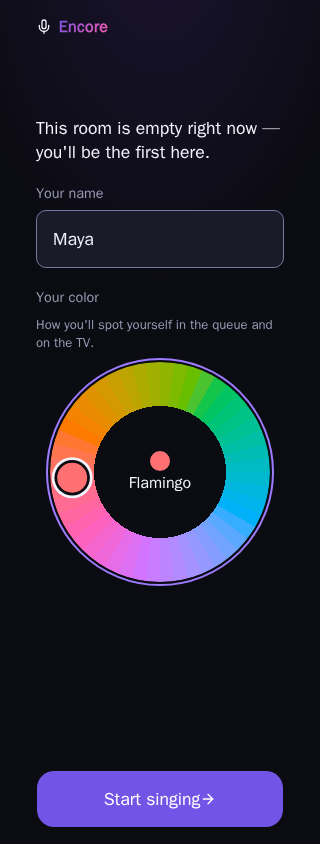
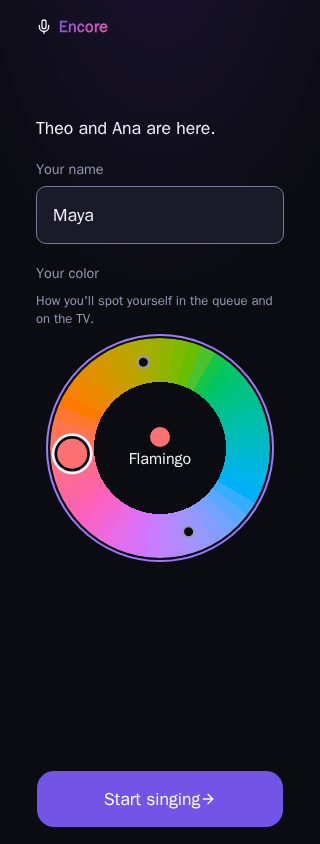
docs: README frames, review nits

diff --git a/core/tests/playwright/specs/shot/readme.spec.ts b/core/tests/playwright/specs/shot/readme.spec.ts
@@ -1,6 +1,9 @@
 // THE README FRAMES. One room driven end to end, so the screenshots in README.md show the app as it ships:
-// a phone joining, a TV lobby with its QR, a queue with somebody on deck, and the TV handing over a turn.
-// Run `README_SHOTS_OUT=../docs/screenshots bun run pw:shot readme.spec.ts` to refresh them.
+// a phone joining, a TV lobby with its QR, a queue with somebody on deck, and the TV after it hands over a turn.
+// Run `README_SHOTS_OUT=../docs/screenshots bun run pw:shot readme.spec.ts` to refresh them, inside
+// `mcr.microsoft.com/playwright:v1.56.1-noble` (docs/E2E.md): the app's system font stack changes every frame elsewhere.
+// Then shrink the two TV frames to a 256-colour palette, which keeps the QR and text crisp:
+// `for f in tv-lobby tv-up-next; do convert $f.png -strip -dither FloydSteinberg -colors 256 PNG8:$f.png; done`
 //
 // EVERY VALUE ON SCREEN IS A FIXTURE: the room code is minted per run, the join address is the same LAN-shaped
 // one `frames.spec.ts` uses, the singers are the names the other shot specs use, and the songs are TheFatRat's
@@ -40,17 +43,6 @@ test('readme: phone and TV frames', async ({ browser, world }, testInfo) => {
 		}
 	}
 
-	// The join pane a scanned QR lands on, filled in.
-	const anon = await browser.newContext({ baseURL: world.baseURL, viewport: { width: 390, height: 844 } });
-	const join_ = await anon.newPage();
-	await join_.emulateMedia({ reducedMotion: 'reduce' });
-	await join_.goto(`/?room=${encodeURIComponent(world.code)}`);
-	await join_.locator(SEL.nameInput).fill('Maya');
-	await join_.locator(SEL.colourRing).press('End');
-	await expect(join_.getByRole('button', { name: SEL.submit })).toBeEnabled();
-	await shootPhone(join_, 'phone-join', SEL.nameInput);
-	await anon.close();
-
 	const worker = await startFakeWorker(world);
 	try {
 		const tv = await world.openTv();
@@ -59,8 +51,21 @@ test('readme: phone and TV frames', async ({ browser, world }, testInfo) => {
 		await theo.goto('/settings/server');
 		await theo.locator(SEL.setting('join-origin')).fill('http://192.168.7.42:3000');
 		await theo.locator(SEL.setting('join-origin')).blur();
-		const maya = await world.openPhone('Maya', { stop: 'End' });
 		const ana = await world.openPhone('Ana');
+
+		// The join pane a scanned QR lands on, filled in: Maya joining the room Theo and Ana are already in.
+		const anon = await browser.newContext({ baseURL: world.baseURL, viewport: { width: 390, height: 844 } });
+		const joinPage = await anon.newPage();
+		await joinPage.emulateMedia({ reducedMotion: 'reduce' });
+		await joinPage.goto(`/?room=${encodeURIComponent(world.code)}`);
+		await expect(joinPage.getByText('Theo and Ana are here.')).toBeVisible();
+		await joinPage.locator(SEL.nameInput).fill('Maya');
+		await joinPage.locator(SEL.colourRing).press('End');
+		await expect(joinPage.getByRole('button', { name: SEL.submit })).toBeEnabled();
+		await shootPhone(joinPage, 'phone-join', SEL.nameInput);
+		await anon.close();
+
+		const maya = await world.openPhone('Maya', { stop: 'End' });
 		await expect(tv.locator(SEL.lobby)).toBeVisible();
 		await expect(tv.locator(SEL.qrImage)).toBeVisible();
 		await expect(tv.locator(SEL.lobbyStripPerson)).toHaveCount(3);
@@ -81,9 +86,12 @@ test('readme: phone and TV frames', async ({ browser, world }, testInfo) => {
 		await expect(deck).toBeVisible();
 		await shootPhone(maya, 'phone-queue', SEL.queueNowCard);
 
-		// Theo's turn ends; the TV hands the stage to Maya.
+		// Theo's turn ends; the TV hands the stage to Maya. Shot once her card has gone: the card's scrim is clear at
+		// the edges, so over it the lower third names her a second time.
 		await theo.getByRole(SEL.skip.role, { name: SEL.skip.name }).first().click();
 		await expect(tv.locator(SEL.stateNext)).toBeVisible({ timeout: 30_000 });
+		await expect(tv.locator(SEL.stateNext)).toHaveCount(0, { timeout: 30_000 });
+		await expect(tv.locator(SEL.nowNameScoped)).toHaveText('Maya');
 		await shoot(tv, 'tv-up-next');
 	} finally {
 		await worker.stop();

diff --git a/README.md b/README.md
@@ -4,9 +4,9 @@ Self-hosted karaoke for a room full of phones. Scan a QR, queue anything from Yo
 library, and sing — Encore strips the vocals itself, times the words to the music, and keeps the
 rotation fair. One container to run it; a second if you want it making karaoke tracks for you.
 
-| The TV, waiting for a pick | The TV, handing over a turn |
+| The TV, waiting for a pick | The TV, mid-song |
 |---|---|
-| ![The TV lobby: a join QR, the room code, and the three singers in the room](docs/screenshots/tv-lobby.png) | ![The TV's Now singing card for Maya, with Ana up next](docs/screenshots/tv-up-next.png) |
+| ![The TV lobby: a join QR, the room code, and the three singers in the room](docs/screenshots/tv-lobby.png) | ![The TV during Maya's song: her lyrics, her name and song, and Ana up next](docs/screenshots/tv-up-next.png) |
 
 | Joining from a phone | The queue, with you on deck |
 |---|---|
